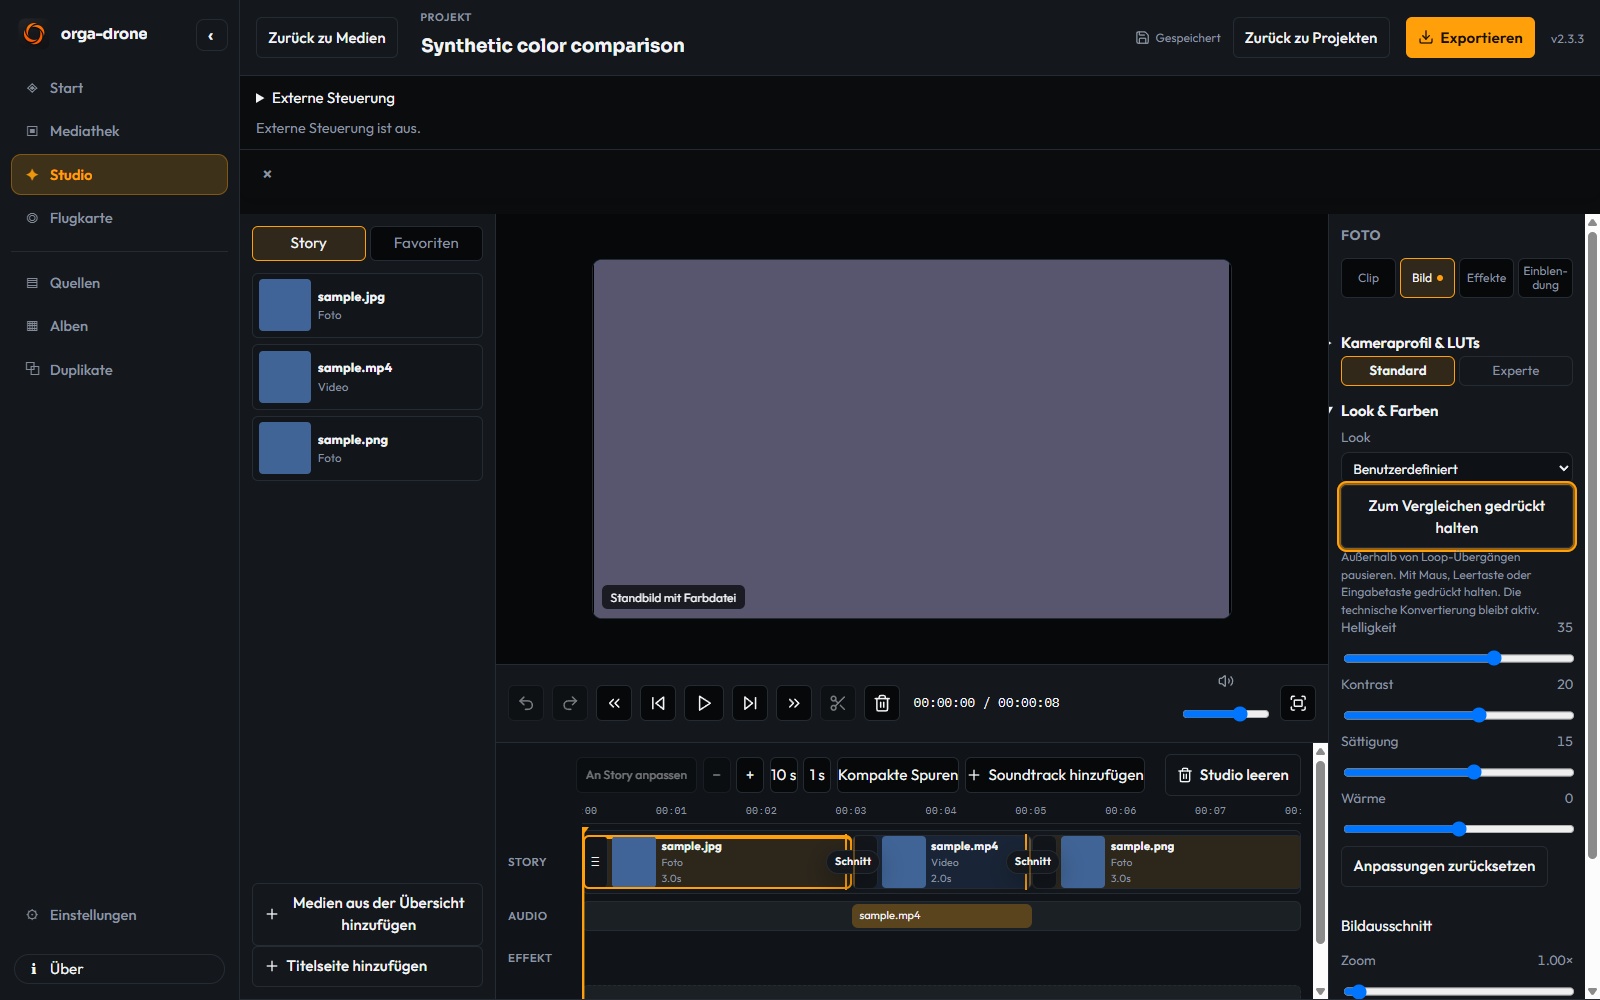
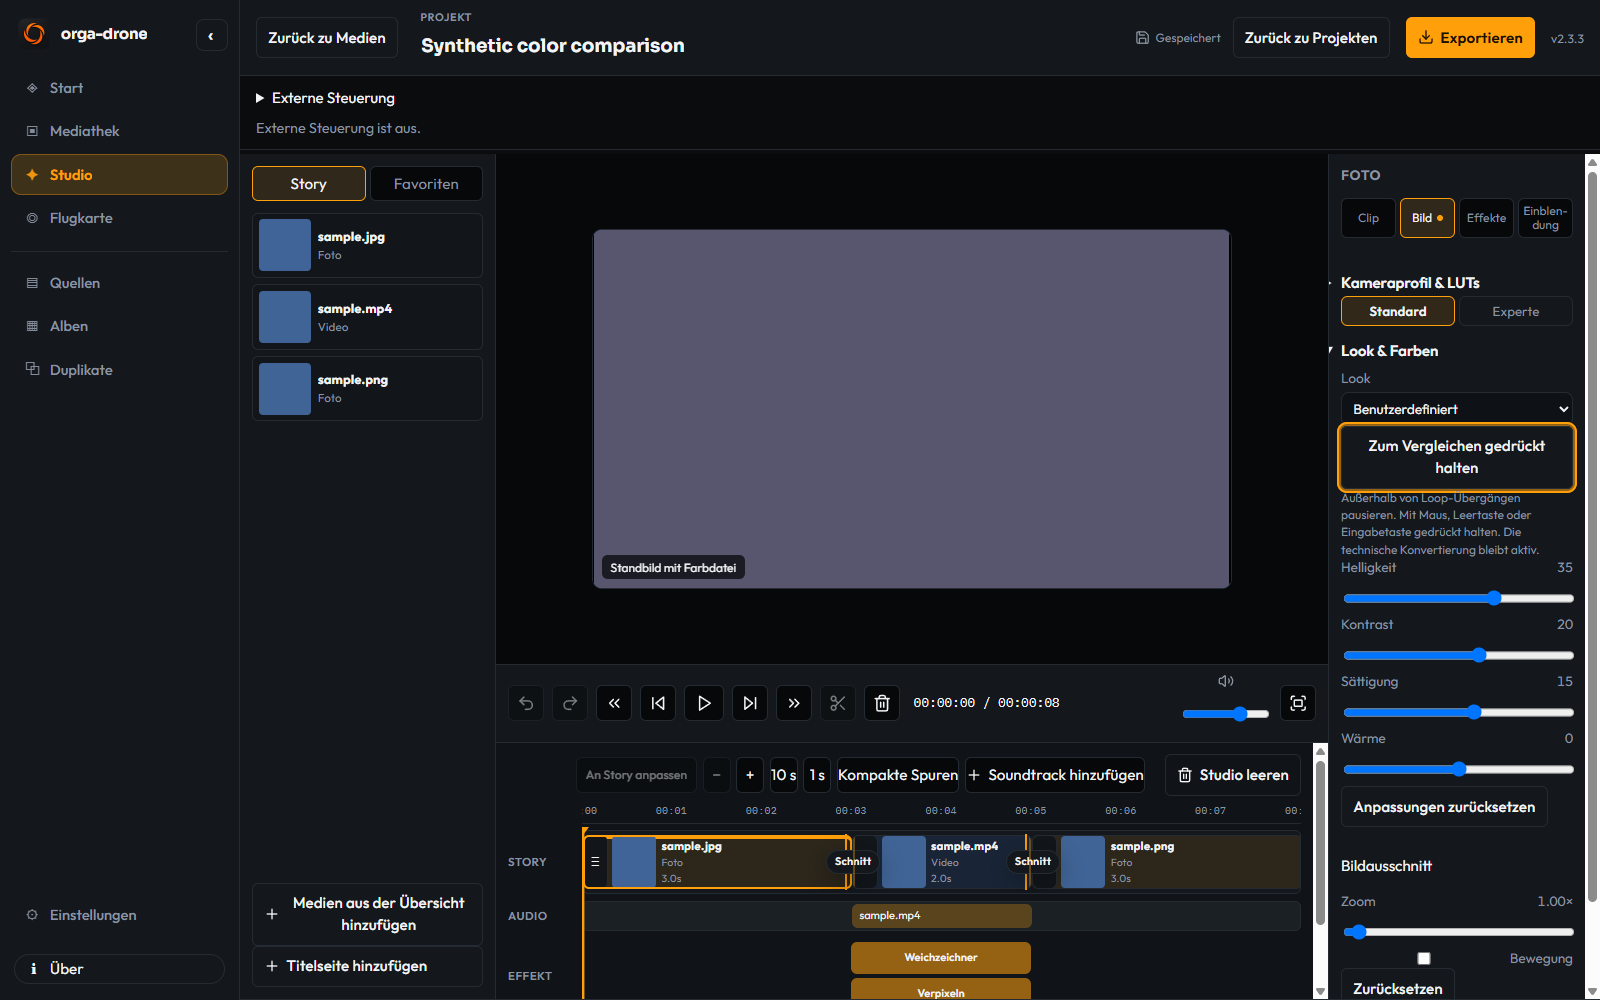
Keep Before colors in WebGL privacy-mask previews

diff --git a/src/orga_drone/static/js/studio.js b/src/orga_drone/static/js/studio.js
@@ -4155,8 +4155,9 @@ import {
   }
 
   function paintPrivacyMask(ctx, media, mask, box, srcW, srcH) {
+    const compared = colorComparison?.pictureFor(clipForPreviewMedia(media));
     const rendered = renderedPreviewStillFor(media);
-    const webgl = lutWebglCanvasFor(media);
+    const webgl = compared ? null : lutWebglCanvasFor(media);
     const picture = webgl || rendered || media;
     if (webgl) {
       srcW = webgl.width;

diff --git a/packaging/e2e/studio_color_compare.py b/packaging/e2e/studio_color_compare.py
@@ -86,7 +86,14 @@ def run(out: Path) -> None:
         db.set_studio_color_look(cid, dict(input_profile="dlog_m", conversion_lut=technical,
                                          conversion_confirmed=True, creative_lut=creative, creative_strength=75))
         db.set_studio_image_adjust(cid, dict(exposure=35, contrast=20, saturation=15))
-        db.set_studio_hsl(cid, {"range": "blue", "hue": 10})
+        if kind == "photo":
+            db.set_studio_hsl(cid, {"range": "blue", "hue": 10})
+        else:
+            # Keep video WebGL-eligible: generated HSL would select another path.
+            db.set_studio_masks(cid, {"masks": [
+                dict(id="blur", effect="blur", x=.15, y=.25, w=.2, h=.3, strength=50),
+                dict(id="pixel", effect="pixelate", x=.65, y=.25, w=.2, h=.3, strength=50),
+            ]})
         ids.append((cid, source.suffix))
     port, debug = free_port(), free_port()
     repo = Path(__file__).resolve().parents[2]
@@ -184,6 +191,11 @@ def run(out: Path) -> None:
             assert len([u for u in cdp.urls if "before=1" in u]) == request_count, "held comparison must not poll"
             before = pixels()
             assert before != after, ext + " comparison must visibly change color"
+            if ext == ".mp4":
+                assert ev("document.getElementById('studio-preview-frame').dataset.lutWebgl === '1'"), "video must exercise WebGL"
+                matched = ev("(()=>{let a=document.getElementById('studio-preview-blit'),b=document.getElementById('studio-preview-masks');return [.25,.75].every(x=>{let p=a.getContext('2d').getImageData(Math.floor(a.width*x),Math.floor(a.height*.4),1,1).data;let q=b.getContext('2d').getImageData(Math.floor(b.width*x),Math.floor(b.height*.4),1,1).data;return [...p].every((v,i)=>v===q[i]);});})()")
+                assert matched, "blur and pixel masks must use the same Before color as the compositor"
+                result["webgl_blur_and_pixel_masks_before"] = True
             (out / (ext[1:] + "-before.png")).write_bytes(base64.b64decode(before.split(",", 1)[1]))
             if ext == ".jpg":
                 (out / "ui-before.png").write_bytes(base64.b64decode(cdp.call("Page.captureScreenshot", {"format": "png"})["data"]))

diff --git a/docs/discovery/322-before-after-color.md b/docs/discovery/322-before-after-color.md
@@ -76,7 +76,7 @@ inherits its detail/color limitations; it is a color inspection aid.
 - `node tests/js/lut_preview.cjs`, `hsl_preview.cjs`, `wheels_preview.cjs`: PASS.
 - `ruff check .`: PASS.
 - `mypy src packaging/e2e/studio_color_compare.py`: PASS (77 source files).
-- Windows command: `python packaging/e2e/studio_color_compare.py --output-dir build/issue322-e2e-reviewed`:
+- Windows command: `python packaging/e2e/studio_color_compare.py --output-dir build/issue322-e2e-masks`:
   PASS in real WebView2 **157.0.4341.42**, launched from this checkout.
 
 [Machine-readable evidence](issue-322-evidence/evidence.json) contains tested-file
@@ -99,3 +99,22 @@ the normal still-status pill. Final evidence is from the complete passing run.
 
 Synthetic UI captures: [Before](issue-322-evidence/ui-before.png),
 [After](issue-322-evidence/ui-after.png). No private media is included.
+
+
+## Independent review correction
+
+The first independent GitHub review of `fa47e89` requested a correction:
+[review](https://github.com/Magehawks/orga-drone/pull/323#pullrequestreview-5827613968).
+The base compositor used Before correctly, but the privacy-mask path could still
+prefer a ready, creatively graded WebGL canvas. The mask path now bypasses that
+canvas while the selected comparison picture is present, preserving its existing
+source dimensions and normal After priority on release.
+
+The executed production-function harness checks both blur and pixelate against a
+ready graded WebGL source, then verifies normal WebGL sampling resumes on release.
+The renewed Windows run uses a LUT-only video (no HSL to force a fallback) with
+both mask types. It asserts WebGL was exercised and the interior color of both
+mask regions exactly matches the Before compositor pixels. All other comparison,
+source-hash, export-byte, reload and request-count assertions still pass. Retained
+machine evidence and screenshots now come from this corrected full run. Renewed
+independent review is requested for the corrected candidate.
